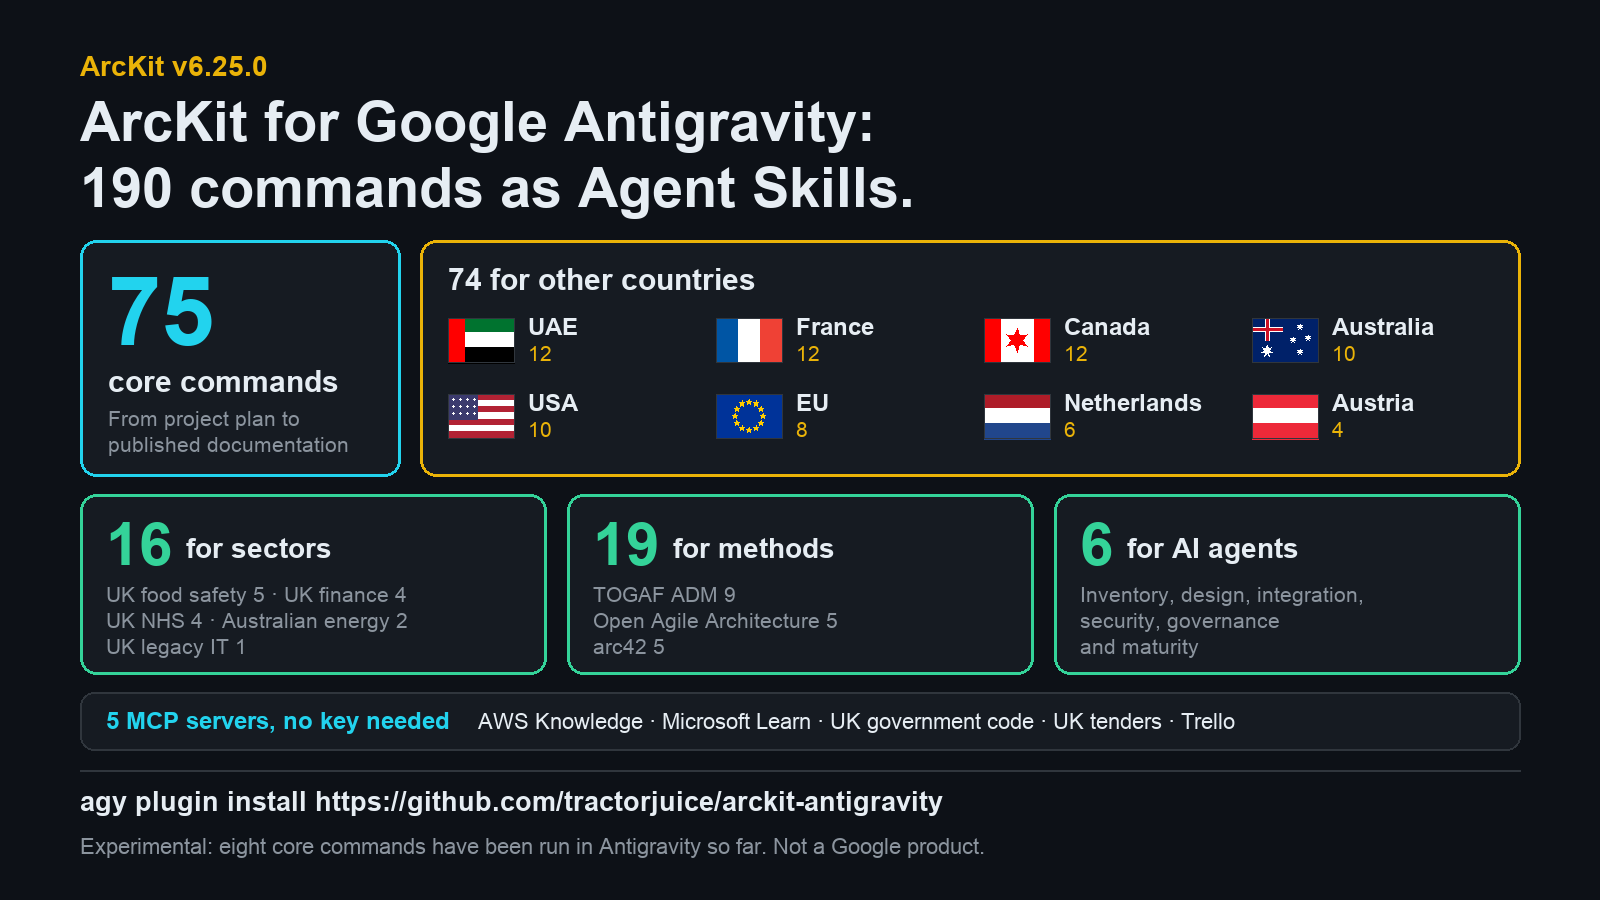
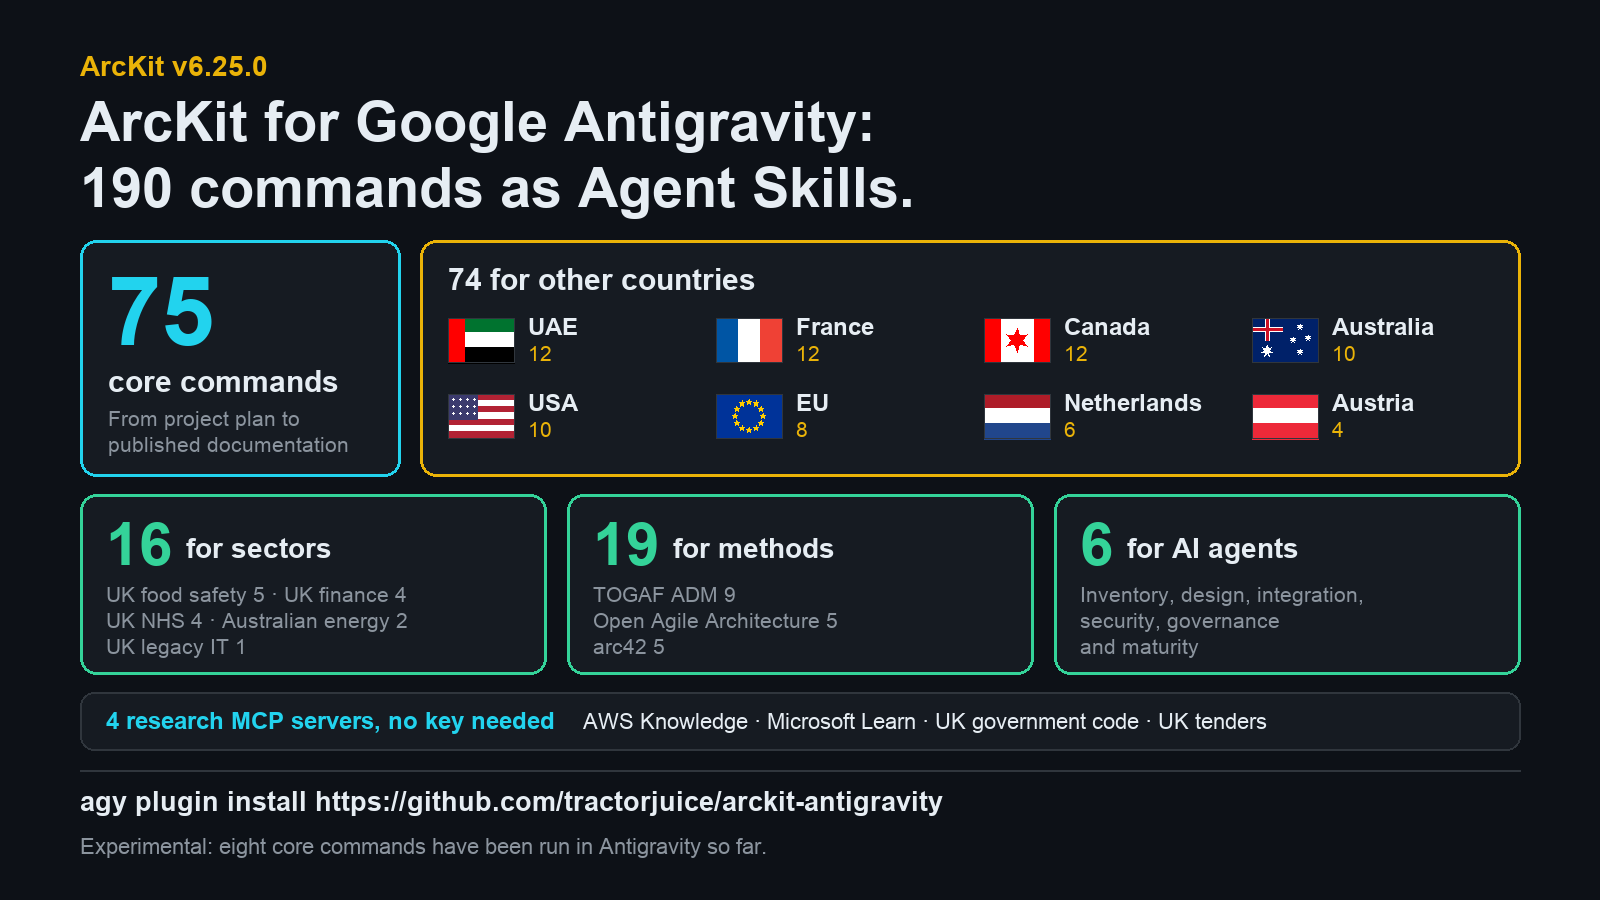
docs: the 6.25.0 hero and article drop Trello and the Google disclaimer
At the maintainer's request: the hero and the article's list name the four
research MCP servers, without Trello, and neither says that ArcKit is not
a Google product. The plugin itself is unchanged.

Claude-Session: https://claude.ai/code/session_01Hfsx56kefipenQbkB64qZ1

Changed region(s): [[0.0625, 0.7778, 0.7812, 0.8089], [0.4688, 0.9333, 0.625, 0.9644]]

diff --git a/docs/share/2026-11-22-arckit-v6-25-google-antigravity-plugin-agent-skills.html b/docs/share/2026-11-22-arckit-v6-25-google-antigravity-plugin-agent-skills.html
@@ -23,7 +23,7 @@
     <meta property="og:url" content="https://arckit.org/share/2026-11-22-arckit-v6-25-google-antigravity-plugin-agent-skills.html">
     <meta property="og:site_name" content="ArcKit">
     <meta property="og:image" content="https://arckit.org/articles/2026-11-22-arckit-v6-25-google-antigravity-plugin-agent-skills-hero.png">
-    <meta property="og:image:alt" content="ArcKit for Google Antigravity: 190 commands as Agent Skills. ArcKit v6.25.0. 75 core commands; 74 for other countries (UAE 12, France 12, Canada 12, Australia 10, USA 10, EU 8, Netherlands 6, Austria 4); 16 for sectors; 19 for methods; 6 for AI agents. Five MCP servers, no key needed: AWS Knowledge, Microsoft Learn, UK government code, UK tenders, Trello. Experimental: eight core commands have been run in Antigravity so far. Not a Google product.">
+    <meta property="og:image:alt" content="ArcKit for Google Antigravity: 190 commands as Agent Skills. ArcKit v6.25.0. 75 core commands; 74 for other countries (UAE 12, France 12, Canada 12, Australia 10, USA 10, EU 8, Netherlands 6, Austria 4); 16 for sectors; 19 for methods; 6 for AI agents. Four research MCP servers, no key needed: AWS Knowledge, Microsoft Learn, UK government code, UK tenders. Experimental: eight core commands have been run in Antigravity so far.">
     <meta name="twitter:card" content="summary_large_image">
     <meta name="twitter:title" content="Google Antigravity Plugin for Enterprise Architecture: 190 Agent Skills in ArcKit v6.25.0">
     <meta name="twitter:description" content="A Google Antigravity plugin for enterprise architecture: ArcKit&#x27;s 190 governance commands as Agent Skills. Install with one line and type /arckit-start.">
@@ -294,11 +294,11 @@
     <main class="govuk-main-wrapper" id="main-content" role="main">
         <div class="govuk-width-container">
             <a href="../articles.html" class="govuk-back-link govuk-!-margin-bottom-6">Back to Articles</a>
-<img class="app-article-hero-img" src="../articles/2026-11-22-arckit-v6-25-google-antigravity-plugin-agent-skills-hero.png" alt="ArcKit for Google Antigravity: 190 commands as Agent Skills. ArcKit v6.25.0. 75 core commands; 74 for other countries (UAE 12, France 12, Canada 12, Australia 10, USA 10, EU 8, Netherlands 6, Austria 4); 16 for sectors; 19 for methods; 6 for AI agents. Five MCP servers, no key needed: AWS Knowledge, Microsoft Learn, UK government code, UK tenders, Trello. Experimental: eight core commands have been run in Antigravity so far. Not a Google product.">
+<img class="app-article-hero-img" src="../articles/2026-11-22-arckit-v6-25-google-antigravity-plugin-agent-skills-hero.png" alt="ArcKit for Google Antigravity: 190 commands as Agent Skills. ArcKit v6.25.0. 75 core commands; 74 for other countries (UAE 12, France 12, Canada 12, Australia 10, USA 10, EU 8, Netherlands 6, Austria 4); 16 for sectors; 19 for methods; 6 for AI agents. Four research MCP servers, no key needed: AWS Knowledge, Microsoft Learn, UK government code, UK tenders. Experimental: eight core commands have been run in Antigravity so far.">
 <div class="app-article-meta"><span class="app-article-meta__date">22 November 2026</span></div>
 <article id="content" class="app-markdown">
 <p><strong>Google Antigravity is Google's agentic development platform, and it runs Agent Skills that you call with a slash command. ArcKit v6.25.0 adds a Google Antigravity plugin that brings ArcKit's 190 architecture governance commands to it as Agent Skills: type <code>/arckit-requirements</code> and it drafts a requirements document from a template.</strong></p>
-<p><strong>Before you start:</strong> the plugin is experimental. It passes Antigravity's own plugin check and it installs. As of 22 November 2026 I've run eight of the core commands in Antigravity and they work; the other 182 haven't been tried there yet. It isn't a Google product and carries no Google endorsement. Everything ArcKit drafts is a draft for a qualified person to review.</p>
+<p><strong>Before you start:</strong> the plugin is experimental. It passes Antigravity's own plugin check and it installs. As of 22 November 2026 I've run eight of the core commands in Antigravity and they work; the other 182 haven't been tried there yet. Everything ArcKit drafts is a draft for a qualified person to review.</p>
 <p><em>Mark Craddock</em></p>
 <hr />
 <h2 id="what-is-google-antigravity-and-what-is-an-agent-skill">What is Google Antigravity, and what is an Agent Skill?</h2>
@@ -343,7 +343,7 @@ arckit init my-project --ai antigravity
 <p>Each one wrote its document from ArcKit's template, with the document control table filled in, the status set to DRAFT and the file named the way ArcKit names it. The AWS research used the AWS Knowledge MCP server that comes with the plugin. When I changed the brief from 350 developers to 6,000 and ran requirements again, it wrote version 1.1 beside version 1.0 and recorded what changed in the revision history.</p>
 <h2 id="what-you-get">What you get</h2>
 <p><strong>The same commands as every other assistant.</strong> The plugin is generated from the commands ArcKit ships everywhere else, and all 190 arrive in the one install. The next section lists them.</p>
-<p><strong>Five MCP servers that need no key.</strong> AWS Knowledge, Microsoft Learn, UK government code search, UK tenders and Trello come with the plugin, so the research commands can read AWS and Azure documentation, search UK government code and look up UK contract awards. Two more, Google Developer Knowledge and Data Commons, need a key, so you add those yourself; the plugin's page says how.</p>
+<p><strong>Four research MCP servers that need no key.</strong> AWS Knowledge, Microsoft Learn, UK government code search and UK tenders come with the plugin, so the research commands can read AWS and Azure documentation, search UK government code and look up UK contract awards. Two more, Google Developer Knowledge and Data Commons, need a key, so you add those yourself; the plugin's page says how.</p>
 <p><strong>Nothing cut short.</strong> I ran Antigravity's own plugin check on the first build and it found something Google's documentation doesn't mention: Antigravity loads the first 24,000 bytes of a skill and drops the rest. 29 of ArcKit's commands are longer than that. The longest, for defence AI assurance, would have lost five sixths of its instructions without any warning. Each of those 29 now keeps its full instructions in a second file beside the skill and tells the agent to read it first. The check passes.</p>
 <h2 id="what-the-190-commands-are">What the 190 commands are</h2>
 <p><strong>75 core commands.</strong> These cover a project from plan to published documentation: principles, stakeholders, risk, business case, requirements, data model, research, Wardley Maps, procurement, design reviews, backlog, traceability and the UK government assessments.</p>
@@ -399,7 +399,6 @@ arckit init my-project --ai antigravity
 <p>Already using ArcKit on Claude Code? Run <code>claude plugin update arckit@arckit-claude</code>.</p>
 <hr />
 <p><em>ArcKit is MIT licensed and maintained at <a href="https://github.com/tractorjuice/arc-kit">github.com/tractorjuice/arc-kit</a>. The full list of changes is in the <a href="https://github.com/tractorjuice/arc-kit/releases/tag/v6.25.0">6.25.0 release notes</a>. The Antigravity plugin is at <a href="https://github.com/tractorjuice/arckit-antigravity">github.com/tractorjuice/arckit-antigravity</a>.</em></p>
-<p><em>Antigravity and Gemini CLI are Google's products. ArcKit is an independent project and isn't affiliated with Google.</em></p>
 <!-- arckit:community-block -->
 <h2 id="join-the-arckit-community">Join the ArcKit Community</h2>
 <ul>

diff --git a/docs/articles.html b/docs/articles.html
@@ -336,7 +336,7 @@
                 <!-- 2026-11-22 Google Antigravity Plugin for Enterprise Architecture: 190 Agent Skills in ArcKit v6.25.0 -->
                 <article class="app-article-card">
                     <a class="app-article-card__media" href="share/2026-11-22-arckit-v6-25-google-antigravity-plugin-agent-skills.html">
-                        <img src="articles/2026-11-22-arckit-v6-25-google-antigravity-plugin-agent-skills-hero.png" alt="ArcKit for Google Antigravity: 190 commands as Agent Skills. ArcKit v6.25.0. 75 core commands; 74 for other countries (UAE 12, France 12, Canada 12, Australia 10, USA 10, EU 8, Netherlands 6, Austria 4); 16 for sectors; 19 for methods; 6 for AI agents. Five MCP servers, no key needed: AWS Knowledge, Microsoft Learn, UK government code, UK tenders, Trello. Experimental: eight core commands have been run in Antigravity so far. Not a Google product." loading="lazy">
+                        <img src="articles/2026-11-22-arckit-v6-25-google-antigravity-plugin-agent-skills-hero.png" alt="ArcKit for Google Antigravity: 190 commands as Agent Skills. ArcKit v6.25.0. 75 core commands; 74 for other countries (UAE 12, France 12, Canada 12, Australia 10, USA 10, EU 8, Netherlands 6, Austria 4); 16 for sectors; 19 for methods; 6 for AI agents. Four research MCP servers, no key needed: AWS Knowledge, Microsoft Learn, UK government code, UK tenders. Experimental: eight core commands have been run in Antigravity so far." loading="lazy">
                     </a>
                     <div class="app-article-card__body">
                         <div class="app-article-card__meta">

diff --git a/docs/index.html b/docs/index.html
@@ -889,7 +889,7 @@
             <div class="app-article-teaser-grid">
                 <article class="app-article-teaser">
                     <a class="app-article-teaser__media" href="share/2026-11-22-arckit-v6-25-google-antigravity-plugin-agent-skills.html">
-                        <img src="articles/2026-11-22-arckit-v6-25-google-antigravity-plugin-agent-skills-hero.png" alt="ArcKit for Google Antigravity: 190 commands as Agent Skills. ArcKit v6.25.0. 75 core commands; 74 for other countries (UAE 12, France 12, Canada 12, Australia 10, USA 10, EU 8, Netherlands 6, Austria 4); 16 for sectors; 19 for methods; 6 for AI agents. Five MCP servers, no key needed: AWS Knowledge, Microsoft Learn, UK government code, UK tenders, Trello. Experimental: eight core commands have been run in Antigravity so far. Not a Google product." loading="lazy">
+                        <img src="articles/2026-11-22-arckit-v6-25-google-antigravity-plugin-agent-skills-hero.png" alt="ArcKit for Google Antigravity: 190 commands as Agent Skills. ArcKit v6.25.0. 75 core commands; 74 for other countries (UAE 12, France 12, Canada 12, Australia 10, USA 10, EU 8, Netherlands 6, Austria 4); 16 for sectors; 19 for methods; 6 for AI agents. Four research MCP servers, no key needed: AWS Knowledge, Microsoft Learn, UK government code, UK tenders. Experimental: eight core commands have been run in Antigravity so far." loading="lazy">
                     </a>
                     <div class="app-article-teaser__body">
                         <div class="app-article-teaser__meta">

diff --git a/docs/articles/generate-hero-v6-25-google-antigravity-plugin.py b/docs/articles/generate-hero-v6-25-google-antigravity-plugin.py
@@ -2,8 +2,8 @@
 
 Written for the person using Google Antigravity: what the one plugin brings,
 broken down as the article breaks it down (75 core commands, 74 for other
-countries, 16 for sectors, 19 for methods, 6 for AI agents) and the five MCP
-servers that come with it. Same house style
+countries, 16 for sectors, 19 for methods, 6 for AI agents) and the four
+research MCP servers that come with it. Same house style
 as the sibling generate-hero-*.py scripts.
 
     uv run --with pillow python docs/articles/generate-hero-v6-25-google-antigravity-plugin.py [output.png]
@@ -34,10 +34,10 @@ GROUPS = (
     ("19", "for methods", ("TOGAF ADM 9", "Open Agile Architecture 5", "arc42 5")),
     ("6", "for AI agents", ("Inventory, design, integration,", "security, governance", "and maturity")),
 )
-MCP_TITLE = "5 MCP servers, no key needed"
-MCP_LIST = "AWS Knowledge · Microsoft Learn · UK government code · UK tenders · Trello"
+MCP_TITLE = "4 research MCP servers, no key needed"
+MCP_LIST = "AWS Knowledge · Microsoft Learn · UK government code · UK tenders"
 FOOT = "agy plugin install https://github.com/tractorjuice/arckit-antigravity"
-SMALL = "Experimental: eight core commands have been run in Antigravity so far. Not a Google product."
+SMALL = "Experimental: eight core commands have been run in Antigravity so far."
 PUBLISHED = "2026-11-22-arckit-v6-25-google-antigravity-plugin-agent-skills-hero.png"
 assert 75 + sum(n for _, _, n in COUNTRIES) + sum(int(g[0]) for g in GROUPS) == 190
 

diff --git a/docs/articles/2026-11-22-arckit-v6-25-google-antigravity-plugin-agent-skills.md b/docs/articles/2026-11-22-arckit-v6-25-google-antigravity-plugin-agent-skills.md
@@ -2,7 +2,7 @@
 
 **Google Antigravity is Google's agentic development platform, and it runs Agent Skills that you call with a slash command. ArcKit v6.25.0 adds a Google Antigravity plugin that brings ArcKit's 190 architecture governance commands to it as Agent Skills: type `/arckit-requirements` and it drafts a requirements document from a template.**
 
-**Before you start:** the plugin is experimental. It passes Antigravity's own plugin check and it installs. As of 22 November 2026 I've run eight of the core commands in Antigravity and they work; the other 182 haven't been tried there yet. It isn't a Google product and carries no Google endorsement. Everything ArcKit drafts is a draft for a qualified person to review.
+**Before you start:** the plugin is experimental. It passes Antigravity's own plugin check and it installs. As of 22 November 2026 I've run eight of the core commands in Antigravity and they work; the other 182 haven't been tried there yet. Everything ArcKit drafts is a draft for a qualified person to review.
 
 *Mark Craddock*
 
@@ -65,7 +65,7 @@ Each one wrote its document from ArcKit's template, with the document control ta
 
 **The same commands as every other assistant.** The plugin is generated from the commands ArcKit ships everywhere else, and all 190 arrive in the one install. The next section lists them.
 
-**Five MCP servers that need no key.** AWS Knowledge, Microsoft Learn, UK government code search, UK tenders and Trello come with the plugin, so the research commands can read AWS and Azure documentation, search UK government code and look up UK contract awards. Two more, Google Developer Knowledge and Data Commons, need a key, so you add those yourself; the plugin's page says how.
+**Four research MCP servers that need no key.** AWS Knowledge, Microsoft Learn, UK government code search and UK tenders come with the plugin, so the research commands can read AWS and Azure documentation, search UK government code and look up UK contract awards. Two more, Google Developer Knowledge and Data Commons, need a key, so you add those yourself; the plugin's page says how.
 
 **Nothing cut short.** I ran Antigravity's own plugin check on the first build and it found something Google's documentation doesn't mention: Antigravity loads the first 24,000 bytes of a skill and drops the rest. 29 of ArcKit's commands are longer than that. The longest, for defence AI assurance, would have lost five sixths of its instructions without any warning. Each of those 29 now keeps its full instructions in a second file beside the skill and tells the agent to read it first. The check passes.
 
@@ -135,8 +135,6 @@ Already using ArcKit on Claude Code? Run `claude plugin update arckit@arckit-cla
 ---
 
 *ArcKit is MIT licensed and maintained at [github.com/tractorjuice/arc-kit](https://github.com/tractorjuice/arc-kit). The full list of changes is in the [6.25.0 release notes](https://github.com/tractorjuice/arc-kit/releases/tag/v6.25.0). The Antigravity plugin is at [github.com/tractorjuice/arckit-antigravity](https://github.com/tractorjuice/arckit-antigravity).*
-
-*Antigravity and Gemini CLI are Google's products. ArcKit is an independent project and isn't affiliated with Google.*
 
 <!-- arckit:community-block -->
 ## Join the ArcKit Community
